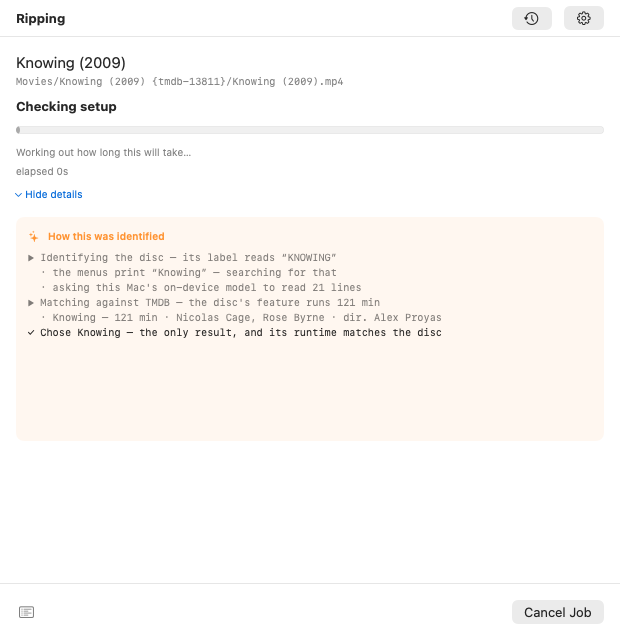
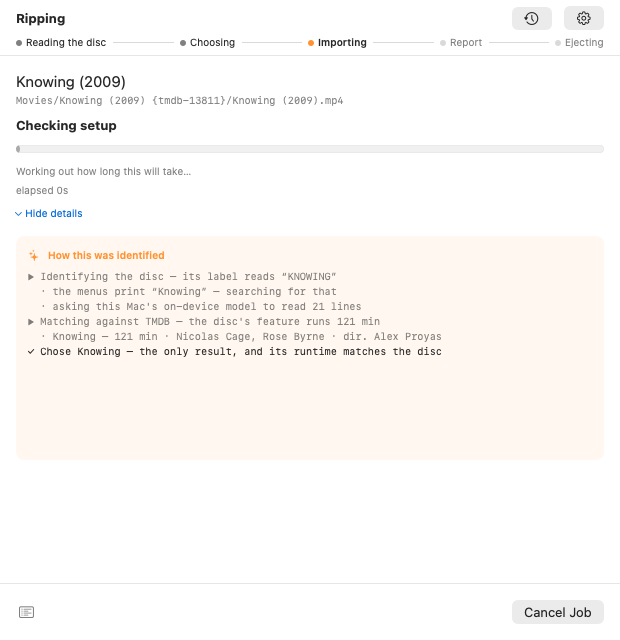
#0163/#0164 Wire the disc's plan into the Ripping and Done steps
The two step views took a plan and nothing passed one, so every sentence
about the disc as a whole was dormant. RipFlowView now hands them
flow.ripPlan; it is nil on an ordinary disc, which is each sentence's "say
nothing new" case.

Screens regenerated. The phase row renders as intended -- Reading the disc,
Choosing, Importing, Report, Ejecting -- with the live phase marked.

One screenshot scenario is deliberately absent: a two-film disc photographed
at its final report. The scenario setup would not reach a settled plan and a
failing harness entry is worse than a missing picture, so it was removed
rather than left red. The behaviour itself is covered by #0163's flow tests;
the picture is owed.

1966 tests in 162 suites pass on gordon.

diff --git a/docs/screens/index.html b/docs/screens/index.html
@@ -72,10 +72,10 @@
      <code>./run-remote-tests.sh gordon ScreenshotHarnessTests/everyScreenRendersToAPNG</code>,
      then <code>Tools/build-screen-review.py</code>.</p>
   <ul class="counts">
-    <div><b>12</b><span>screens</span></div>
-    <div><b>5</b><span>paths</span></div>
-    <div><b>4</b><span>open questions</span></div>
-    <div><b>2026-09-26</b><span>generated</span></div>
+    <div><b>14</b><span>screens</span></div>
+    <div><b>6</b><span>paths</span></div>
+    <div><b>5</b><span>open questions</span></div>
+    <div><b>2026-09-28</b><span>generated</span></div>
   </ul>
   <h2 class="path">Path 1 — automatic import</h2><section class="card" id="1a-insert-disc">
   <a class="shot" href="1a-insert-disc.png"><img src="1a-insert-disc.png" alt="Waiting for a disc" width="620" height="340" loading="lazy"></a>
@@ -107,7 +107,7 @@
 </section><section class="card" id="1d-ripping">
   <a class="shot" href="1d-ripping.png"><img src="1d-ripping.png" alt="Ripping, with the identification evidence carried forward" width="620" height="640" loading="lazy"></a>
   <div class="notes">
-    <p class="meta"><span class="sid">1d-ripping</span><code>ripping(job-20260926-221741-7CA1)</code></p>
+    <p class="meta"><span class="sid">1d-ripping</span><code>ripping(job-20260928-003416-DC0D)</code></p>
     <h3>Ripping, with the identification evidence carried forward</h3>
     <p class="purpose">The encode is running. The evidence panel exists so the reasoning stays on screen for the forty minutes the encode takes.</p>
     <p class="field"><span class="k">Look at</span>Whether the evidence panel is big enough to be read, and whether the progress block and the panel are fighting for the same space.</p>
@@ -143,7 +143,7 @@
 </section><section class="card" id="2d-ripping-after-manual">
   <a class="shot" href="2d-ripping-after-manual.png"><img src="2d-ripping-after-manual.png" alt="Ripping a film the user chose by hand" width="620" height="640" loading="lazy"></a>
   <div class="notes">
-    <p class="meta"><span class="sid">2d-ripping-after-manual</span><code>ripping(job-20260926-221743-95A4)</code></p>
+    <p class="meta"><span class="sid">2d-ripping-after-manual</span><code>ripping(job-20260928-003417-F632)</code></p>
     <h3>Ripping a film the user chose by hand</h3>
     <p class="purpose">The evidence panel now records both halves: what the app guessed, and what the user chose. Before #0154 the heading claimed the app had identified it.</p>
     <p class="field"><span class="k">Look at</span>The heading change, and whether “✎ You chose …” is distinguishable enough from the app&#x27;s own lines.</p>
@@ -170,7 +170,7 @@
 </section><h2 class="path">Path 4 — endings</h2><section class="card flagged" id="4a-done-success">
   <a class="shot" href="4a-done-success.png"><img src="4a-done-success.png" alt="Finished, filed into Plex" width="620" height="340" loading="lazy"></a>
   <div class="notes">
-    <p class="meta"><span class="sid">4a-done-success</span><code>done(job-20260926-221744-9A9B)</code></p>
+    <p class="meta"><span class="sid">4a-done-success</span><code>done(job-20260928-003418-E7B5)</code></p>
     <h3>Finished, filed into Plex</h3>
     <p class="purpose">The successful ending. The disc has been ejected and the file is in the library.</p>
     <p class="field"><span class="k">Look at</span><em class="callout">THE USER&#x27;S OTHER COMPLAINT:</em> this screen loses most of the useful detail the Ripping screen had. Should the evidence panel survive into Done?</p>
@@ -184,6 +184,24 @@
     <p class="purpose">The eject ladder is running. On joe&#x27;s USB drive this can take minutes and six attempts, because loginwindow dissents while the screen is locked.</p>
     <p class="field"><span class="k">Look at</span>Whether a multi-minute eject needs more than “Ejecting…” — on joe it really does take that long.</p>
     <p class="field"><span class="k">On screen for</span>Seconds to several minutes.</p>
+  </div>
+</section><h2 class="path">Path 6 — two films on one disc</h2><section class="card flagged" id="6a-two-features-unnamed">
+  <a class="shot" href="6a-two-features-unnamed.png"><img src="6a-two-features-unnamed.png" alt="Two features, neither named yet" width="620" height="640" loading="lazy"></a>
+  <div class="notes">
+    <p class="meta"><span class="sid">6a-two-features-unnamed</span><code>chooseMovie</code></p>
+    <h3>Two features, neither named yet</h3>
+    <p class="purpose">The disc holds two films. Both search boxes are deliberately blank: the volume label is UNCLE_BUCK_GREAT_OUTDOORS, and prefilling that whole string returns 0 results and looks broken.</p>
+    <p class="field"><span class="k">Look at</span><em class="callout">THE KEY SCREEN:</em> is it obvious there are two films and that each needs naming? Are the blocks distinguishable by runtime alone, with no poster and no title?</p>
+    <p class="field"><span class="k">On screen for</span>Until the user names at least one film.</p>
+  </div>
+</section><section class="card" id="6b-two-features-one-named">
+  <a class="shot" href="6b-two-features-one-named.png"><img src="6b-two-features-one-named.png" alt="One film named, one still to go" width="620" height="640" loading="lazy"></a>
+  <div class="notes">
+    <p class="meta"><span class="sid">6b-two-features-one-named</span><code>chooseMovie</code></p>
+    <h3>One film named, one still to go</h3>
+    <p class="purpose">The user has searched for and picked Uncle Buck for the 1h 40m feature. The other block is still waiting.</p>
+    <p class="field"><span class="k">Look at</span>Does the named block read as settled, and the unnamed one as outstanding? Is it clear which film this pass will actually rip?</p>
+    <p class="field"><span class="k">On screen for</span>Until the second film is named, or Start is pressed.</p>
   </div>
 </section>
   <footer>Every scenario asserts the <code>FlowStep</code> it derived, so a screenshot cannot drift

diff --git a/Changeover/RipFlowView.swift b/Changeover/RipFlowView.swift
@@ -234,9 +234,15 @@ struct RipFlowView: View {
         case .confirm:
             ConfirmStepView()
         case .ripping(let jobID):
-            RippingStepView(jobID: jobID)
+            // #0163/#0164 — the disc's plan, so the Ripping step can say which
+            // film of how many this is and what follows it. `nil` on an
+            // ordinary disc, which is every sentence's "say nothing new" case.
+            RippingStepView(jobID: jobID, plan: flow.ripPlan)
         case .done(let jobID):
-            DoneStepView(jobID: jobID)
+            // #0164 — the per-disc report: one row per film, imported or
+            // skipped. On a one-film disc the plan holds one entry and every
+            // added sentence returns nil, so the card is unchanged.
+            DoneStepView(jobID: jobID, plan: flow.ripPlan)
         }
     }
 }
